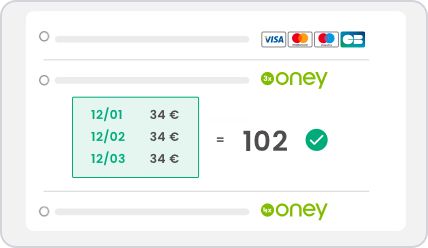
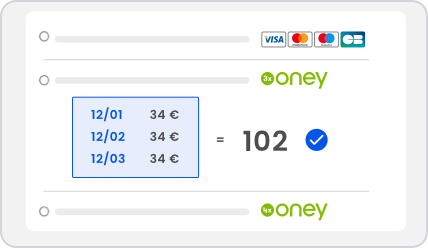
update paylater images + add logs

diff --git a/src/models/classes/ApiRest.php b/src/models/classes/ApiRest.php
@@ -128,19 +128,6 @@ class ApiRest
             (bool) $config->get($this->dependencies->getConfigurationKey('enable'))
         )['result'];
 
-        $psAccountConnected = $this->dependencies->configClass->checkPsAccount();
-        if ($logged && !$psAccountConnected) {
-            $this->dependencies
-                ->getPlugin()
-                ->getConfigurationAction()
-                ->logoutAction();
-            $logged = false;
-        }
-
-        $enable = $this->validators['module']->canBeShown(
-            (bool) $config->get($this->dependencies->getConfigurationKey('enable'))
-        )['result'];
-
         return [
             'logged' => $logged,
             'email' => $config->get($this->dependencies->getConfigurationKey('email')),
@@ -154,18 +141,18 @@ class ApiRest
             'inst_min_amount' => $config->get($this->dependencies->getConfigurationKey('instMinAmount')),
             'deferred' => $config->get($this->dependencies->getConfigurationKey('deferred')),
             'deferred_state' => $config->get($this->dependencies->getConfigurationKey('deferredState')),
-            'oney' => $config->get($this->dependencies->getConfigurationKey('oney')),
-            'oney_fees' => $config->get($this->dependencies->getConfigurationKey('oneyFees')),
-            'oney_schedule' => $config->get($this->dependencies->getConfigurationKey('oneyOptimized')),
-            'oney_product_animation' => $config->get($this->dependencies->getConfigurationKey('oneyProductCta')),
-            'oney_cart_animation' => $config->get($this->dependencies->getConfigurationKey('oneyCartCta')),
+            'oney' => (bool) $config->get($this->dependencies->getConfigurationKey('oney')),
+            'oney_fees' => (bool) $config->get($this->dependencies->getConfigurationKey('oneyFees')),
+            'oney_schedule' => (bool) $config->get($this->dependencies->getConfigurationKey('oneyOptimized')),
+            'oney_product_animation' => (bool) $config->get($this->dependencies->getConfigurationKey('oneyProductCta')),
+            'oney_cart_animation' => (bool) $config->get($this->dependencies->getConfigurationKey('oneyCartCta')),
             'oney_thresholds_min' => $config->get($this->dependencies->getConfigurationKey('oneyMinAmounts')),
             'oney_thresholds_max' => $config->get($this->dependencies->getConfigurationKey('oneyMaxAmounts')),
             'oney_custom_thresholds_min' => $config->get($this->dependencies->getConfigurationKey('oneyCustomMinAmounts')),
             'oney_custom_thresholds_max' => $config->get($this->dependencies->getConfigurationKey('oneyCustomMaxAmounts')),
-            'bancontact' => $config->get($this->dependencies->getConfigurationKey('bancontact')),
-            'bancontact_country' => $config->get($this->dependencies->getConfigurationKey('bancontactCountry')),
-            'applepay' => $config->get($this->dependencies->getConfigurationKey('applepay')),
+            'bancontact' => (bool) $config->get($this->dependencies->getConfigurationKey('bancontact')),
+            'bancontact_country' => (bool) $config->get($this->dependencies->getConfigurationKey('bancontactCountry')),
+            'applepay' => (bool) $config->get($this->dependencies->getConfigurationKey('applepay')),
         ];
     }
 
@@ -470,6 +457,9 @@ class ApiRest
     public function getOneySchedule($active = false)
     {
         if (!is_bool($active)) {
+            $logger = $this->dependencies->getPlugin()->getLogger();
+            $logger->addLog('ApiRest::getOneySchedule: Invalid parameter given, $active must be a boolean.');
+
             return [];
         }
 
@@ -495,7 +485,7 @@ class ApiRest
 
         return [
             'name' => 'oney_schedule',
-            'image_url' => $img_path . $this->dependencies->name . '-thresholds.jpg',
+            'image_url' => $img_path . $this->dependencies->name . '-optimized.jpg',
             'title' => $translation['oneySchedule']['title'],
             'descriptions' => [[
                 'description' => $translation['oneySchedule']['description'],
@@ -519,6 +509,13 @@ class ApiRest
      */
     public function getOneyPopupCart($active = false)
     {
+        if (!is_bool($active)) {
+            $logger = $this->dependencies->getPlugin()->getLogger();
+            $logger->addLog('ApiRest::getOneyPopupProduct: Invalid parameter given, $active must be a boolean.');
+
+            return [];
+        }
+
         $translation = $this->dependencies
             ->getPlugin()
             ->getTranslation()
@@ -547,6 +544,13 @@ class ApiRest
      */
     public function getOneyPopupProduct($active = false)
     {
+        if (!is_bool($active)) {
+            $logger = $this->dependencies->getPlugin()->getLogger();
+            $logger->addLog('ApiRest::getOneyPopupCart: Invalid parameter given, $active must be a boolean.');
+
+            return [];
+        }
+
         $translation = $this->dependencies
             ->getPlugin()
             ->getTranslation()
@@ -577,6 +581,9 @@ class ApiRest
     public function getPaylaterSection($current_configuration = [])
     {
         if (!is_array($current_configuration)) {
+            $logger = $this->dependencies->getPlugin()->getLogger();
+            $logger->addLog('ApiRest::getPaylaterSection: Invalid parameter given, $current_configuration must be an array.');
+
             return [];
         }
 
@@ -590,6 +597,7 @@ class ApiRest
             'oney_schedule' => false,
             'oney_fees' => true,
         ];
+
         foreach ($default_configuration as $k => $v) {
             if (!isset($current_configuration[$k])) {
                 $current_configuration[$k] = $v;
@@ -702,8 +710,6 @@ class ApiRest
     /**
      * @description build payment methods section for api usage
      * @todo: divide the get of the different payment method in relative class
-     *
-     * @param mixed $current_configuration
      *
      * @param mixed $current_configuration
      *
@@ -1279,6 +1285,9 @@ class ApiRest
     public function getThresholdsOptions($current_configuration = [])
     {
         if (!is_array($current_configuration)) {
+            $logger = $this->dependencies->getPlugin()->getLogger();
+            $logger->addLog('ApiRest::getThresholdsOptions: Invalid parameter given, $min must be an array.');
+
             return [];
         }
 
@@ -1313,20 +1322,14 @@ class ApiRest
             ->getTranslation()
             ->getPaylaterTranslations();
 
-        if ('payplug' == $this->dependencies->name) {
-            $image = 'thresholds.09a2ba52.jpg';
-        } else {
-            $image = 'pspaylater-thresholds.b1d1549c.svg';
-        }
-
         $img_path = $this->dependencies
             ->getPlugin()
             ->getConstant()
-            ->get('__PS_BASE_URI__') . 'modules/' . $this->dependencies->name . '/dist/img/';
+            ->get('__PS_BASE_URI__') . 'modules/' . $this->dependencies->name . '/views/img/admin/screen/';
 
         return [
             'name' => 'thresholds',
-            'image_url' => $img_path . $image,
+            'image_url' => $img_path . $this->dependencies->name . '-thresholds.jpg',
             'title' => $translation['thresholds']['title'],
             'descriptions' => [
                 'description' => $translation['thresholds']['description'],
